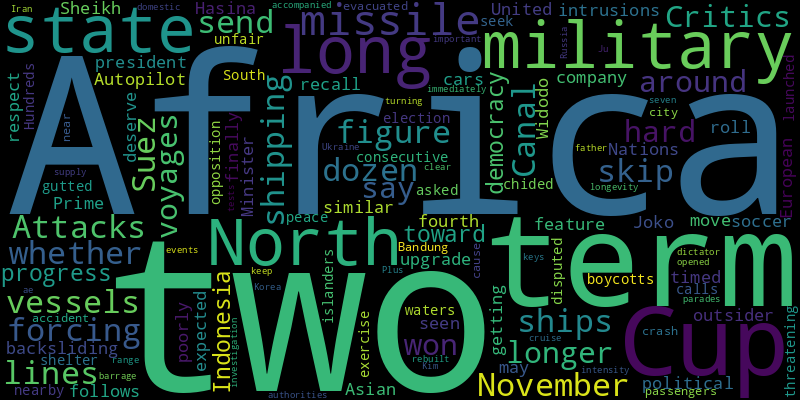
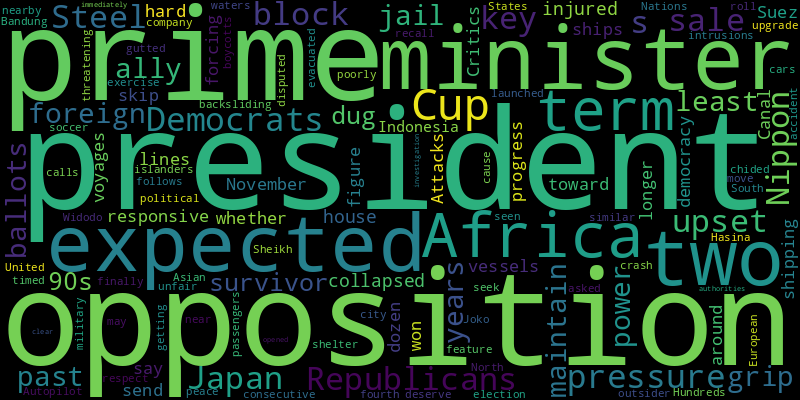
chore(bot): 👻 auto commit

diff --git a/README.md b/README.md
@@ -2,32 +2,35 @@
 Auto RSS New York Times and Generate Word Cloud
 
 ## New York Times Global News
+* They are the first line of treatment for soldiers wounded on the battlefield, racing against time to try to save lives.
+* The death might have been just a local tragedy. But some of the suspects were from an immigrant community, turning the case into a cause célèbre for the far right.
+* At the University of Haifa, more than 40 percent of students are Arab, some with family in Gaza, and many others have now been called up as soldiers.
+* It is out of step with the continent’s values, many bishops say, and threatens to derail expansion in the church’s fastest growing region in the world.
+* With the opposition in jail or at least off the ballots, the prime minister for the past 15 years is expected to maintain her grip on power.
+* A military spokesman said it would use other strategies to destroy Hamas’s networks in southern and central Gaza.
+* The survivor, who was in her 90s, was dug out from under a collapsed house, injured but responsive.
 * “The lucky are those who have someone to bury them when they die,” Dr. Mohammad Abu Moussa, a radiologist at one Gaza hospital, said of those killed by Israeli airstrikes.
+* Ukrainian officials said missile assaults had struck private houses, trapping residents under the rubble, and that the dead included five children.
 * The American-provided air-defense systems have helped Ukraine defend itself against Russian assaults, but Washington has warned that it will not be able to keep them supplied for much longer.
-* Ever since the Quebec Nordiques decamped in 1995, leaving a hole in the Francophone city, vote-seeking officials have vowed to bring them back. But younger voters may be starting to forget the team.
-* The plan exposed divisions in Israel’s war cabinet as Secretary of State Antony J. Blinken returned to the Middle East on Friday in an effort to ease escalating tensions.
-* Critics say that hard-won progress toward democracy in Indonesia has been backsliding under Joko Widodo, a two-term president who was once a political outsider.
-* President Vladimir V. Putin is seeking to strengthen his military to fight in Ukraine while avoiding a potentially unpopular mobilization of Russians.
-* Even after the Islamic State took responsibility for deadly bombings, Iran’s government, facing public anger, blamed Israel.
-* Prime Minister Rishi Sunak signaled that voters will go to the polls in the fall, around the time that the United States will be in the midst of its own pivotal vote.
-* Soheib Abu Amar, who lived in East Jerusalem, was captured by Hamas during its attack on Israel. His brothers spent weeks investigating what happened next.
-* Prime Minister Sheikh Hasina is expected to roll to a fourth consecutive term as the gutted opposition boycotts what it calls an unfair election.
 
 ![Global](./global.png)
 ## New York Times United States News
-* Neri Oxman, a former M.I.T. professor, is accused of copying from Wikipedia. Her husband, Bill Ackman, vowed to check the work of the entire M.I.T. faculty.
-* Randy Roedema, the only police officer convicted in the death of Mr. McClain, was sentenced to 14 months in a county jail.
-* Gov. Mike DeWine, who had vetoed a ban on gender transition care for minors just a week ago, issued an executive order that prohibits transition surgeries for all residents.
-* A California judge who initially found the suspect incompetent to stand trial ruled on Friday that after treatment at a state psychiatric hospital, he now met the legal standard.
-* In dueling sets of speeches, Donald Trump and President Biden are framing the election as a battle for the future of democracy — with Mr. Trump brazenly casting Mr. Biden as the true menace.
-* The top presidential candidates are vowing to protect the entitlement programs for current seniors, though some have floated changes for younger generations. But they’ve muddied each other’s current positions.
 * U.S. News sells “badges” to colleges, so they can promote their rankings — whether they are 1st, 10th or much, much lower.
-* The filing by Jack Smith was the latest volley in a battle over the timing of the case accusing the former president of plotting to overturn the 2020 election.
-* At a campaign event in Iowa, former President Donald J. Trump denounced Nikki Haley, the former governor of South Carolina, as the choice of corporate and political elites.
-* The Georgia congresswoman has repeatedly downplayed, and at times defended, the attack on the Capitol three years ago.
+* An armed 17-year-old student left one dead and five wounded at Perry High School.
+* Neri Oxman, a former M.I.T. professor, is accused of copying from Wikipedia. Her husband, William Ackman, vowed to check the work of the entire M.I.T. faculty.
+* Randy Roedema, the only police officer convicted in the death of Mr. McClain, was sentenced to 14 months in a county jail.
+* The president is under pressure from Democrats and Republicans to block the sale to Japan’s Nippon Steel, which could upset a key foreign ally.
+* Nearly a week before the state’s caucuses, a frenzy of campaigning belies a seemingly static G.O.P. race, with former President Donald J. Trump the prohibitive front-runner.
+* Sunland Park, along the Rio Grande, has joined the ranks of U.S. cities transformed by state cannabis laws. But the good times may not last forever.
+* Parts of Pennsylvania and New Jersey were expected to get as much as two inches of snow per hour, forecasters said. Officials cautioned against unnecessary travel through Sunday.
+* The effort to oust the state’s controversial G.O.P. chair after infighting and financial troubles faces challenges from her allies and is likely headed to the courts.
+* In a two-hour speech in Newton, Iowa, the former president said those who attacked the Capitol on Jan. 6, 2021, had acted “peacefully and patriotically.”
 
 ![US](./usnews.png)
 ## New York Times Asia News
+* The president is under pressure from Democrats and Republicans to block the sale to Japan’s Nippon Steel, which could upset a key foreign ally.
+* With the opposition in jail or at least off the ballots, the prime minister for the past 15 years is expected to maintain her grip on power.
+* The survivor, who was in her 90s, was dug out from under a collapsed house, injured but responsive.
 * Attacks on two dozen ships since November are forcing shipping lines to figure out whether and when to skip the Suez Canal and send vessels on longer voyages around Africa.
 * Critics say that hard-won progress toward democracy in Indonesia has been backsliding under Joko Widodo, a two-term president who was once a political outsider.
 * The recall follows a similar move by the company in the United States to upgrade the cars’ Autopilot feature.
@@ -35,8 +38,5 @@ Auto RSS New York Times and Generate Word Cloud
 * Prime Minister Sheikh Hasina is expected to roll to a fourth consecutive term as the gutted opposition boycotts what it calls an unfair election.
 * The South asked nearby islanders to seek shelter before it launched a military exercise in the disputed waters and chided the North for “threatening peace.”
 * Hundreds of passengers were evacuated from the crash near the city of Bandung. The cause of the accident was not immediately clear, and the authorities have opened an investigation.
-* Plus the seven keys to longevity.
-* Russia has rebuilt its own domestic supply of cruise missiles, but to keep up with the intensity of the barrage against Ukraine, it has been turning to North Korea and Iran.
-* Kim Ju-ae has long accompanied her dictator father to important state events, like long-range missile tests and military parades.
 
 ![Asian](./asian.png)
